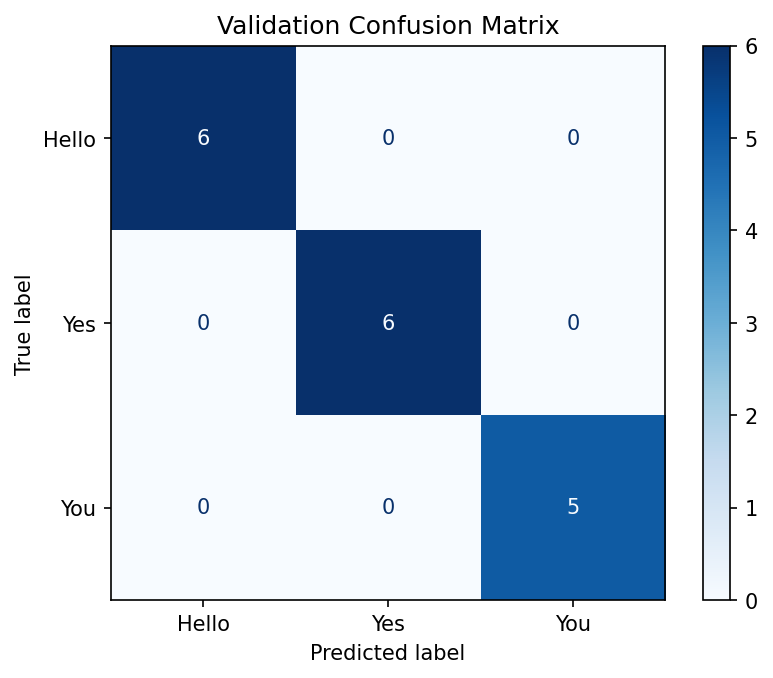
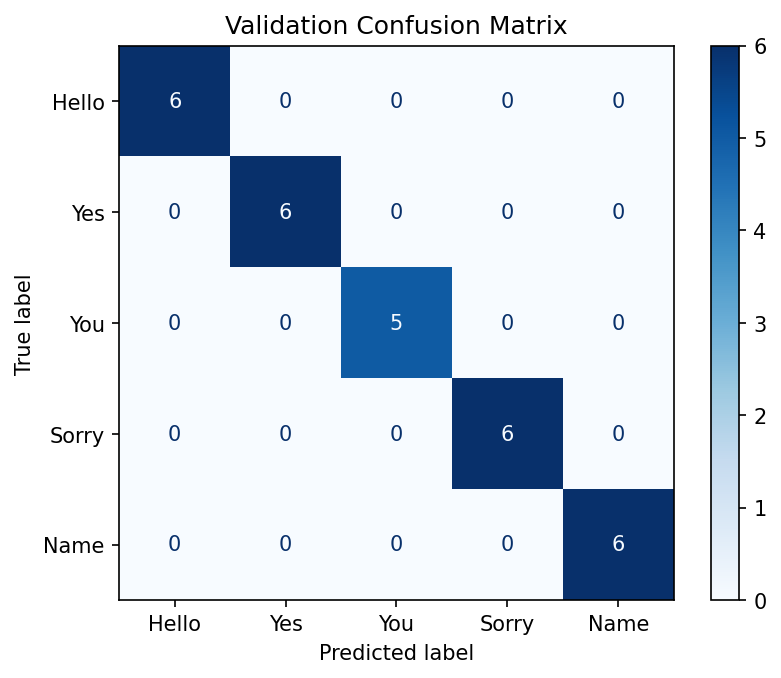
Backend ASL
Added words sorry and name

diff --git a/asl_backend/predict.py b/asl_backend/predict.py
@@ -7,10 +7,10 @@ import joblib
 import torch.nn.functional as F
 
 # -------- Settings --------
-MAX_FRAMES = 30
+MAX_FRAMES = 40
 NUM_FEATURES = 63
 TRIM_FIRST_FRAMES = 5  # number of frames to remove at start
-CONFIDENCE_THRESHOLD = 0.6  # minimum confidence to display prediction
+CONFIDENCE_THRESHOLD = 0.4  # Lower threshold to catch "Hello" better
 
 # -------- LSTM Model --------
 class TinyLSTMModel(torch.nn.Module):
@@ -119,6 +119,17 @@ while True:
     cv2.putText(frame, buffer_status, (10, 40), cv2.FONT_HERSHEY_SIMPLEX, 1, (255, 255, 255), 2)
 
     if results.multi_hand_landmarks:
+        # Draw ALL detected hands
+        for hand_landmarks in results.multi_hand_landmarks:
+            mp_draw.draw_landmarks(
+                frame, 
+                hand_landmarks, 
+                mp_hands.HAND_CONNECTIONS,
+                mp_draw.DrawingSpec(color=(0, 255, 0), thickness=2, circle_radius=2),
+                mp_draw.DrawingSpec(color=(255, 255, 255), thickness=2)
+            )
+        
+        # Use first hand for prediction
         hand = results.multi_hand_landmarks[0]
         
         # Extract landmarks
@@ -126,15 +137,6 @@ while True:
         for lm in hand.landmark:
             coords.extend([lm.x, lm.y, lm.z])
         frame_buffer.append(coords)
-        
-        # Draw hand landmarks
-        mp_draw.draw_landmarks(
-            frame, 
-            hand, 
-            mp_hands.HAND_CONNECTIONS,
-            mp_draw.DrawingSpec(color=(0, 255, 0), thickness=2, circle_radius=2),
-            mp_draw.DrawingSpec(color=(255, 255, 255), thickness=2)
-        )
 
         # Make prediction when buffer is full
         if len(frame_buffer) == MAX_FRAMES:

diff --git a/asl_backend/train.py b/asl_backend/train.py
@@ -202,7 +202,7 @@ if best_state is not None:
     print(f"\n✅ Restored best model from validation")
 
 # -------- Save checkpoint --------
-class_names = ["Hello", "Yes", "You"]
+class_names = ["Hello", "Yes", "You", "Sorry", "Name"]
 torch.save({"state_dict": model.state_dict(), "class_names": class_names}, "models/gesture_lstm.pt")
 joblib.dump(scaler, "models/scaler.pkl")
 print("✅ Saved model and scaler to models/")

diff --git a/asl_backend/recorder.py b/asl_backend/recorder.py
@@ -19,7 +19,7 @@ cv2.destroyAllWindows()
 cap = cv2.VideoCapture(0)
 
 data = []
-label = "hello_10"  # change this each time you record a new sign
+label = "name_40"  # change this each time you record a new sign
 
 print("Collecting data for:", label)
 

diff --git a/asl_backend/process_data.py b/asl_backend/process_data.py
@@ -33,7 +33,7 @@ X = []
 y = []
 
 # Predefined gesture label mapping
-gesture_labels = {"hello": 0, "yes": 1, "you": 2}
+gesture_labels = {"hello": 0, "yes": 1, "you": 2, "sorry": 3, "name": 4}
 
 print("="*60)
 print("PREPROCESSING ASL GESTURE DATA")
